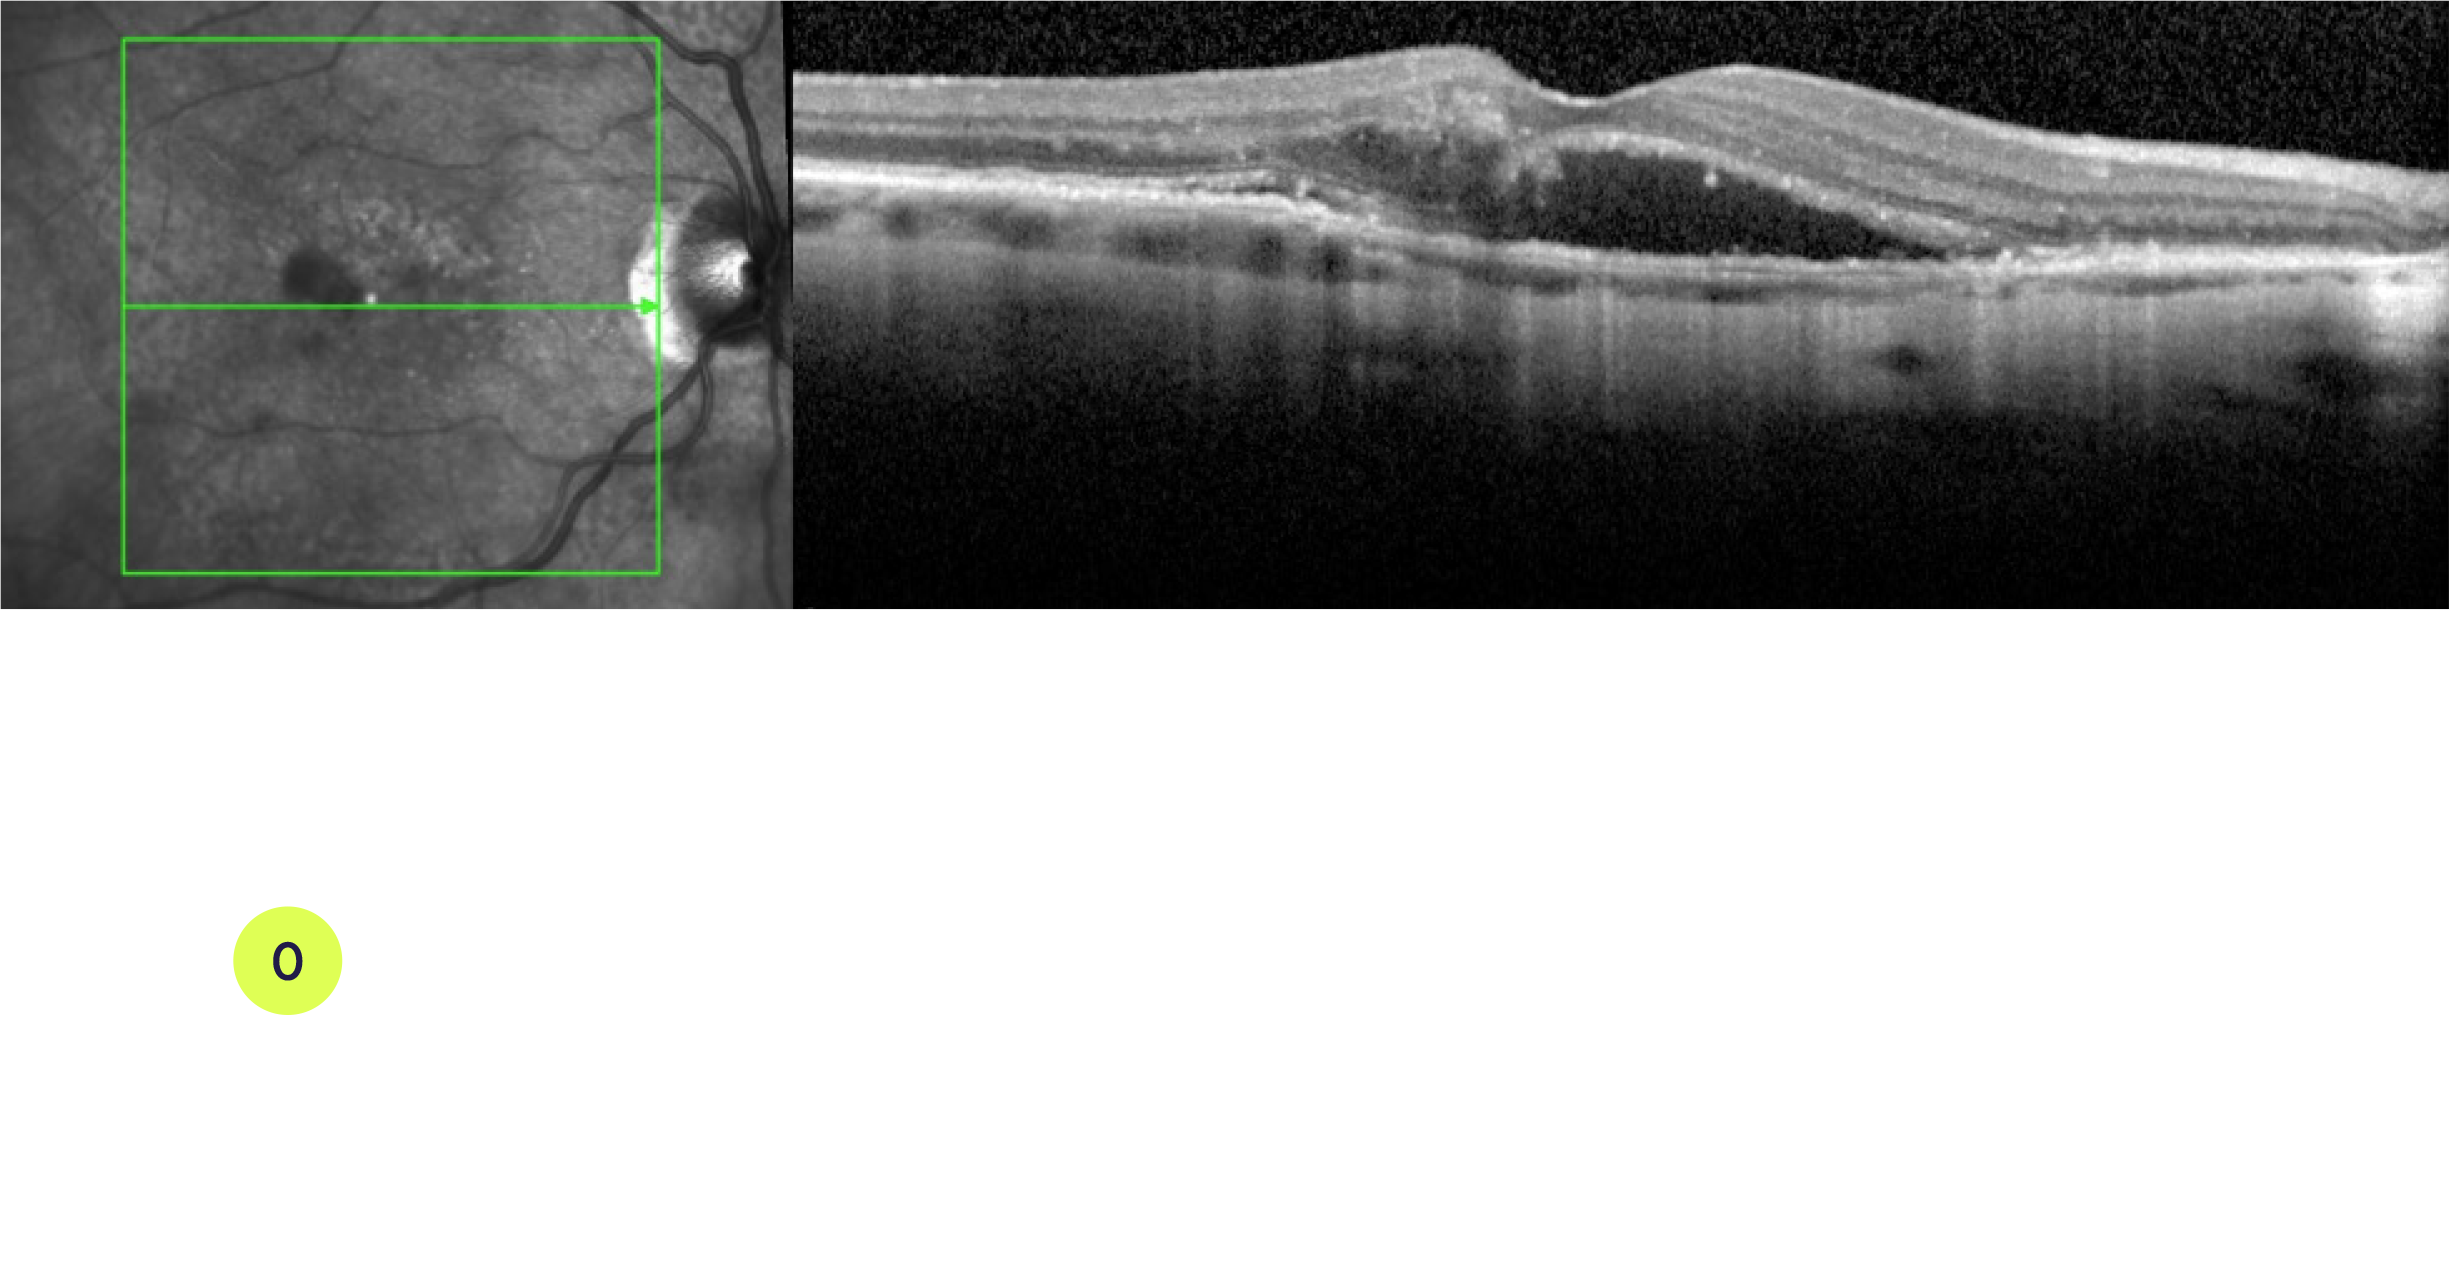
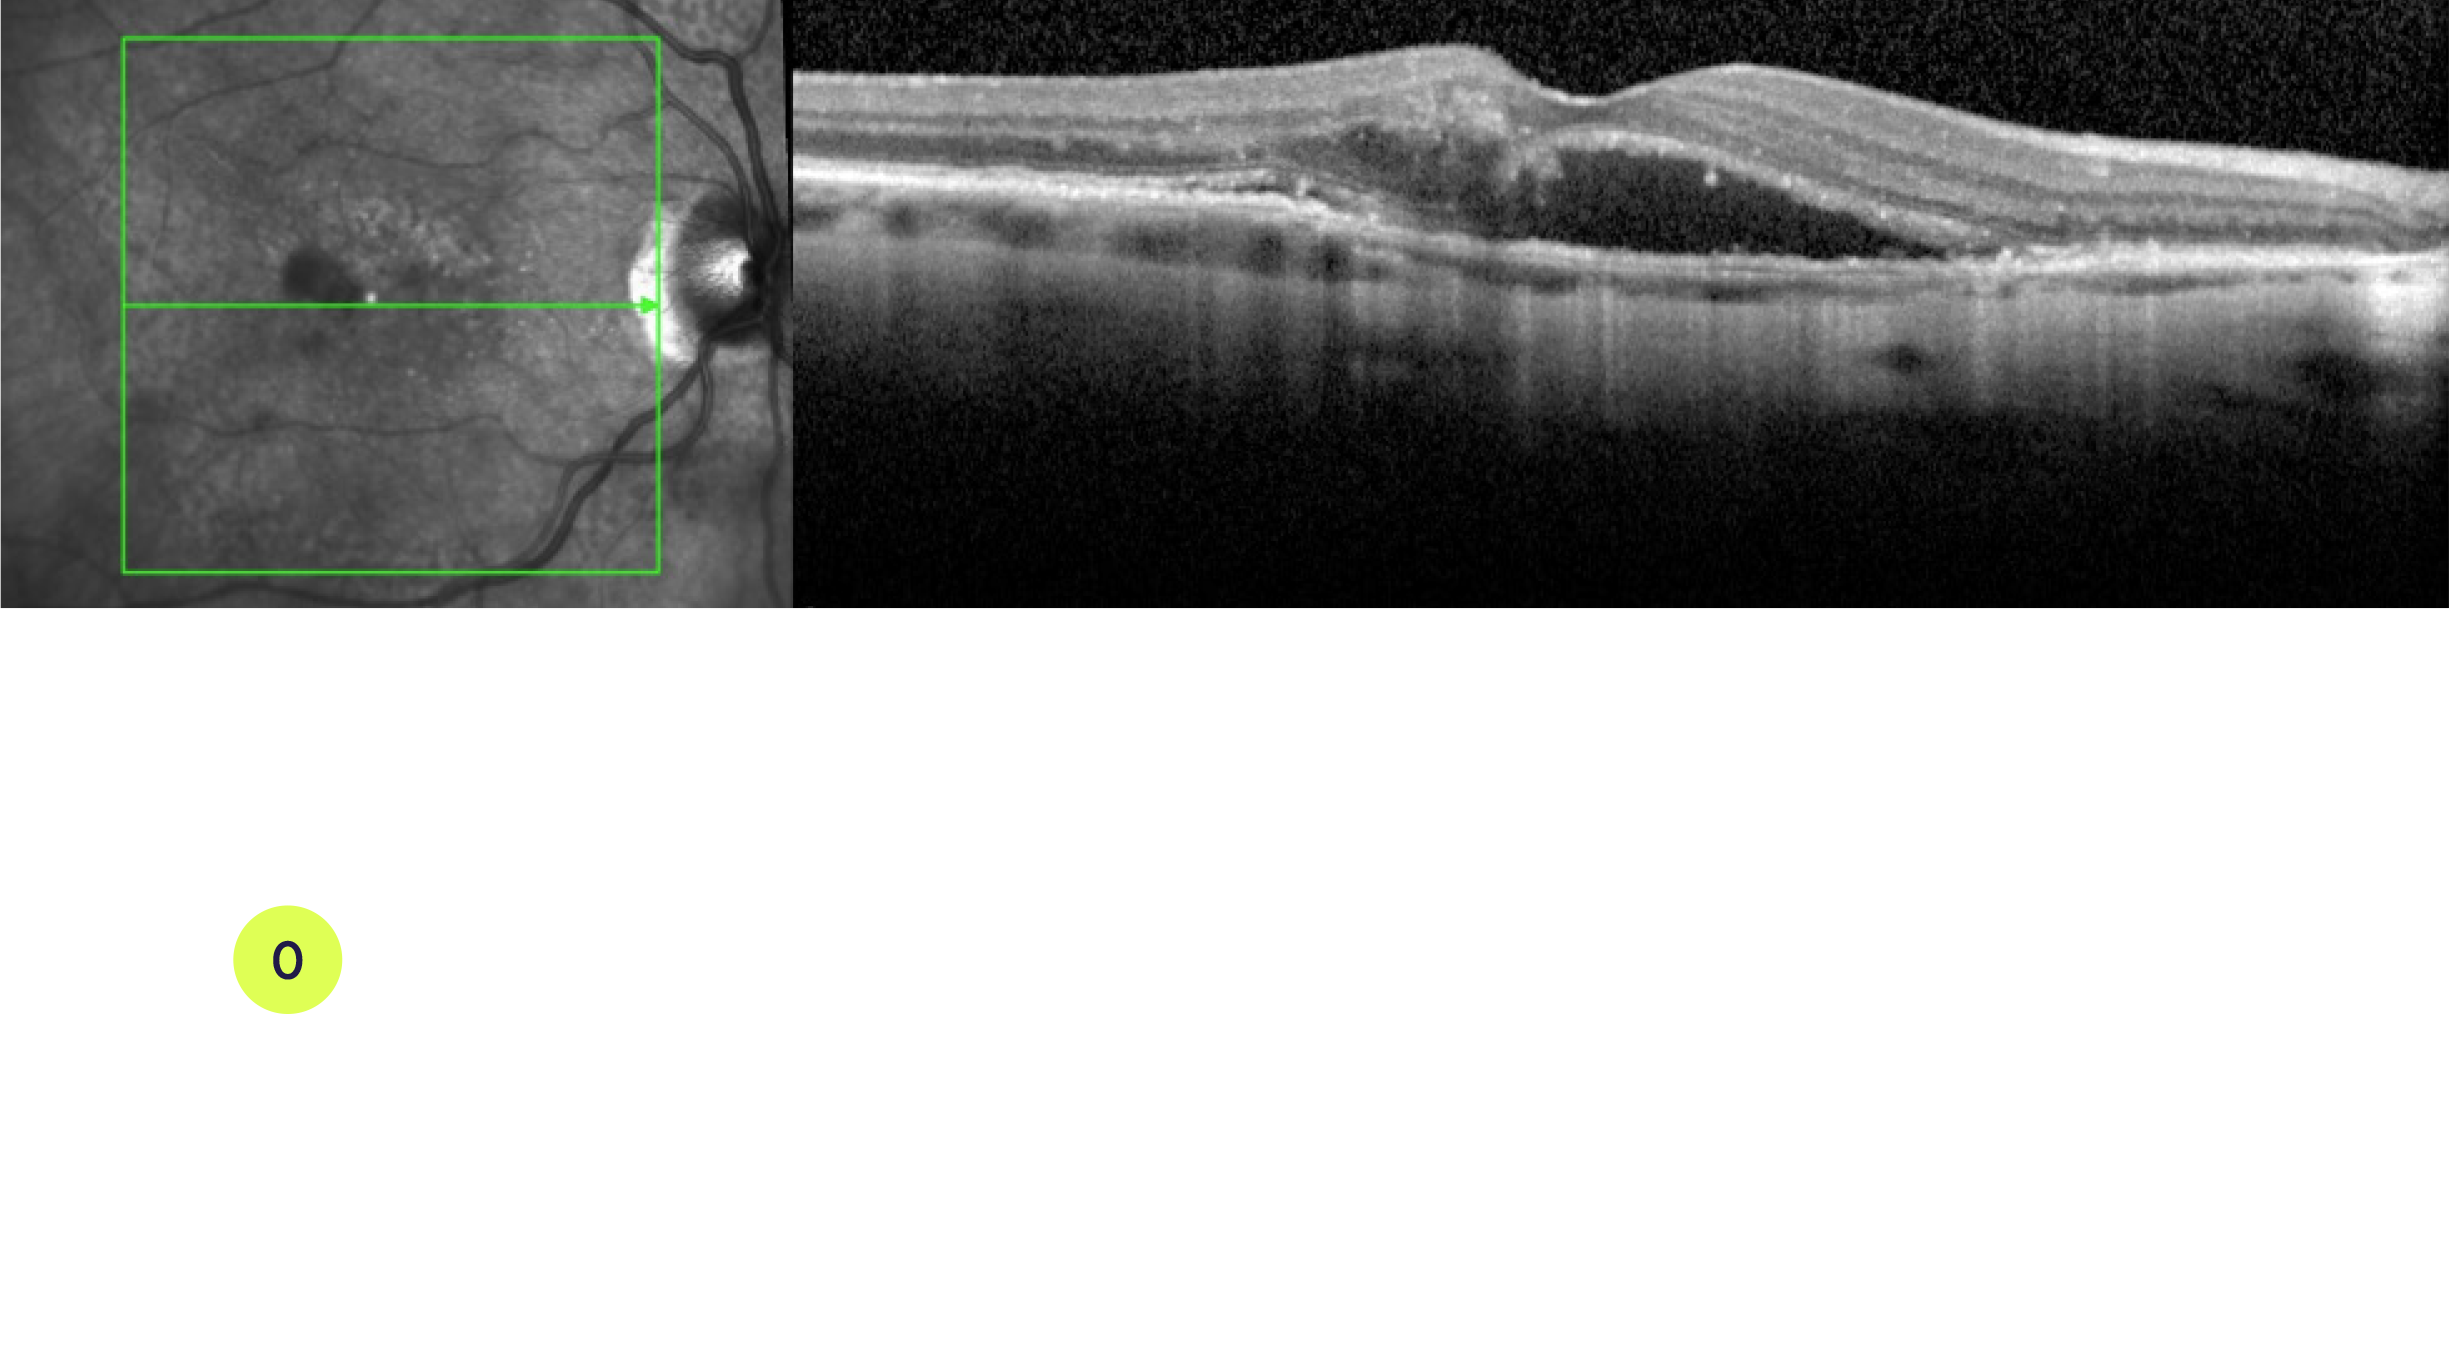
fixing durbality case 2 week 0

diff --git a/css/durability-dme-02.css b/css/durability-dme-02.css
@@ -41,8 +41,8 @@
 }
 
 .dme_case_2_week_0_img {
-    width: 58%;
-    height: 52%;
+    width: 62%;
+    height: 53.9%;
     position: absolute;
     top: 16.8%;
     left: 27%;
